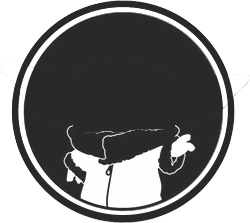
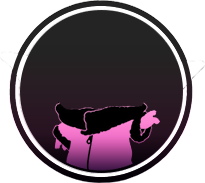
Rdy for REAL API integration tomorrow

Changed region(s): [[0.0293, 0.0, 0.9366, 1.0]]

diff --git a/src/logic/API_QUERY_LOGIC.js b/src/logic/API_QUERY_LOGIC.js
@@ -1,0 +1,142 @@
+// key d123d684
+// VARIABLES ______________________________________________ */
+ /**
+  * <b>DESCR:</b><br>
+  * All variables needed here
+  */
+  const errorMsgs = {
+    'key' : 'Enter you API Key !',
+    'title' : 'Enter a movie title !'
+  }
+
+  const requiredFields = {
+    'key' : document.getElementById('key'),
+    'title' : document.getElementById('title')
+  }
+
+// FORM VALIDATOR _________________________________________ */
+ /**
+  * <b>DESCR:</b><br>
+  * Takes an HTML form NODE & checks if it has been completed
+  *
+  * @function
+  * @param {number} inputsNb the number of inputs to check
+  * @param {object} form the HTML collection containing the form node
+  *
+  * @returns {boolean} form has been validated ? true : false
+  */
+ function formValidator(inputsNb, form) {
+   header.innerHTML = 'KIKOO LES F . D . P'
+
+   let validatedInputs = 0
+
+   for (let i = 1; i < inputsNb+1; i++) {
+     let input = form[i]
+     let inputIsFilled = input.value.trim()
+
+     if (inputIsFilled) {
+       requiredFields[input.id].className = ''
+       validatedInputs = validatedInputs + 1
+     } else {
+       requiredFields[input.id].classList.add('is-required')
+       header.append(errorMsgs[input.id])
+     }
+   }
+
+   if (validatedInputs === inputsNb) {
+     return true
+   } else {
+     return false
+   }
+ }
+// GET MOVIE ______________________________________________ */
+ /**
+  * <b>DESCR:</b><br>
+  * Fetch data from OpenMovieDataBase & return JSON file w/ results
+  *
+  * @function
+  * @param {string} url The query to fetch
+  */
+ const getMovie = async (url) => {
+   try {
+     let response = await fetch(url)
+     let json = await response.json()
+     displayResult(json)
+   } catch(err) {
+     console.log(err)
+   }
+ }
+// DISPLAY RESULT _________________________________________ */
+ /**
+  * <b>DESCR:</b><br>
+  * Displays JSON data inside the DOM
+  *
+  * @function
+  * @param {object} results The JSON data from the server
+  */
+ function displayResult(fromJson) {
+  result.innerHTML = ''
+
+  let array = Object.entries(fromJson)
+
+  for (let i = 0; i < array.length; i++) {
+    if (array[i].includes('Ratings')) {
+      result.innerHTML += `<p><b>${array[i][0]}</b> : <br>`
+      for (let j = 0; j < array[i][1].length; j++) {
+        result.innerHTML += ` - ${array[i][1][j].Source} : ${array[i][1][j].Value} <br>`
+      }
+    } else if (array[i].includes('Poster')) {
+      result.innerHTML += `<img src="${array[i][1]}">`
+    } else {
+      result.innerHTML += `<p><b>${array[i][0]}</b> : ${array[i][1]}</p>`
+    }
+  }
+ }
+// QUERY BUILDER __________________________________________ */
+ /**
+  * <b>DESCR:</b><br>
+  * Builds query's URL based on the form values
+  *
+  * @function
+  * @param {HTMLNodes} inputs All the inputs form
+  * @param {string} url The url to fetch
+  *
+  * @returns {url} the url completed w/ the inputs values
+  */
+ function queryBuilder(inputs, url) {
+   if (inputs[1].value.trim()) {
+     url += inputs[1].value
+   } else {
+     return
+   }
+   if (inputs[2].value.trim()) {
+     url += '&t=' + inputs[2].value
+   }
+   if (inputs[3].value.trim()) {
+     url += '&y=' + inputs[3].value
+   }
+   if (inputs[4].value.trim()) {
+     url += '&type=' + inputs[4].value
+   }
+   if (inputs[5].value === 'full') {
+     url += '&plot=' + inputs[5].value
+   }
+   if (inputs[6].value === 'xml') {
+     url += '&r=' + inputs[6].value
+   }
+   return url
+ }
+// SEARCH BUTTON CLICK ____________________________________ */
+ /**
+  * <b>DESCR:</b><br>
+  * Handling the "search" button click event
+  *
+  * @function
+  */
+ button.addEventListener('click',  () => {
+   // SI VALIDATOR RENVOIE TRUE ALORS
+   if (formValidator(2, document.forms[0])) {
+     // Fetch la requête
+     getMovie(queryBuilder(document.forms[0], 'http://www.omdbapi.com/?apikey='))
+   }
+ })

diff --git a/src/components/css/header.css b/src/components/css/header.css
@@ -8,19 +8,33 @@ header {
   flex-wrap: wrap;
   width: 1000px;
 }
-header h1 {  
-  margin: 3rem;
-  font-size: 3rem;
-  font-style: italic;
-  font-family: 'Courier New', Courier, monospace;
+header h1 {
+  margin: 0;
+  font-size: 6rem;
+  font-family: 'baby_dollregular';
   font-weight: lighter;
+  transform: translateY(-70px);
+  background-color: var(--app-background);
+  background-image: linear-gradient(90deg, #00ffcc, #ffea00, #f262ff);
+  -webkit-background-clip: text;
+  -moz-background-clip: text;
+  -webkit-text-fill-color: transparent; 
+  -moz-text-fill-color: transparent;
+}
+#title {
+  width: 100%;
+  display: flex;
+  flex-direction: column;
+  align-items: center;
+  justify-content: center;
 }
 #logo {
   position: relative;
   background: url('../../img/bYoda1_2.png') no-repeat;
+  background-blend-mode: multiply;
   background-size: contain;
-  height: 180px;
-  width: 200px;
+  height: 183px;
+  width: 205px;
   margin-top: 20px;
   cursor: pointer;
 }

diff --git a/src/index.css b/src/index.css
@@ -13,6 +13,13 @@ ________________________________________________________ */
   --app-hover: dodgerblue;
   --app-border: silver;
 }
+@font-face {
+  font-family: 'baby_dollregular';
+  src: url('fonts/baby-doll-webfont.woff2') format('woff2'),
+       url('fonts/baby-doll-webfont.woff') format('woff');
+  font-weight: normal;
+  font-style: normal;
+}
 body {
   display: flex;
   align-items: flex-start;

diff --git a/src/components/Header.jsx b/src/components/Header.jsx
@@ -6,8 +6,10 @@ const Header = () => {
   const { categories } = useStoreState((state) => state.selector)
   return (
     <header>
-      <div id="logo"></div>
-      <h1>CUTE MOVIE APP</h1>
+      <section id="title">
+        <div id="logo"></div>
+        <h1>Cute Movie App</h1>
+      </section>
       <Filter categories={categories} />
     </header>
   )

diff --git a/src/data/modal.js b/src/data/modal.js
@@ -1,4 +1,4 @@
-import { action, thunk, debug } from 'easy-peasy'
+import { action, thunk } from 'easy-peasy'
 import { cuteMoviesDB } from './cuteMoviesDB'
 import { manageLike, manageDislike } from '../logic/logic'
 

diff --git a/src/components/MovieCard.jsx b/src/components/MovieCard.jsx
@@ -1,3 +1,4 @@
+// @refresh reset
 import './css/movie-card.css'
 import Thumb from '../img/thumb-up.svg'
 import UsedThumb from '../img/thumb-up-filled.svg'

diff --git a/src/index.js b/src/index.js
@@ -5,5 +5,5 @@ import App from './App'
 
 const root = ReactDOM.createRoot(document.getElementById('root'))
 root.render(
-  <App />
+    <App />
 )

diff --git a/src/components/Page.jsx b/src/components/Page.jsx
@@ -1,3 +1,4 @@
+// @refresh reset
 import './css/page.css'
 import Header from './Header'
 import MovieCard from './MovieCard'
